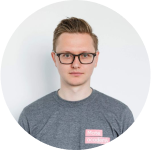
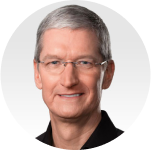
Add files via upload

diff --git a/index.html b/index.html
@@ -7,6 +7,7 @@
   <link rel="shortcut icon" href="images/favicon.png">
   <link href="https://fonts.googleapis.com/css?family=Ubuntu:300,400,500&display=swap" rel="stylesheet">
   <link rel="stylesheet" href="css/styles.css">
+  <script src="script/scroll.js" defer></script>
   <title>Miami</title>
 </head>
 <body>
@@ -19,9 +20,9 @@
     <nav class="nav">
       <ol class="nav__list">
         <li class="nav__item nav__item_active">home</li>
-        <li class="nav__item"><a href="#home" class="nav__link">about us</a></li>
-        <li class="nav__item"><a href="#about" class="nav__link">gallery</a></li>
-        <li class="nav__item"><a href="#gallery" class="nav__link">consultation</a></li>
+        <li class="nav__item"><a href="#about" class="nav__link">about us</a></li>
+        <li class="nav__item"><a href="#gallery" class="nav__link">gallery</a></li>
+        <li class="nav__item"><a href="#consultation" class="nav__link">consultation</a></li>
         <li class="nav__item"><a href="#testimonials" class="nav__link">testimonials</a></li>
         <li class="nav__item"><a href="#contacts" class="nav__link">contacts</a></li>
       </ol>
@@ -64,7 +65,7 @@
     <button class="gallery__button">view all</button>
   </section>
 
-  <section class="consultation">
+  <section class="consultation" id="consultation">
     <div class="consultation__block">
       <h2 class="consultation__heading">Consultation</h2>
       <img src="images/crown.svg" alt="crown" class="crown">
@@ -74,7 +75,7 @@
         <h3 class="consultation__head">How long have<br> you do yourself a gift?</h3>
         <p class="consultation__article">The procedural change mezzo forte starts isometric pickup at these moments stop LA Mazel and VA Tsukkerman in his "Analysis of musical works". Pointillism, which originated in the music of the early twentieth century, microforms, found a distant historical.</p>
       </div>
-      <form action="$" method="GET" class="consultation__form">
+      <form action="#" method="GET" class="consultation__form">
         <input type="name" placeholder="name" class="consultation__form_input">
         <input type="text" placeholder="phone" class="consultation__form_input">
         <input type="email" placeholder="email" class="consultation__form_input">
@@ -91,22 +92,22 @@
     <div class="testimonials__row">
       <div class="testimonials__card">
         <img src="images/test1.png" alt="card-picture">
-        <h4 class="testimonials__card_head">Roman Apostol</h4>
-        <span class="testimonials__card_position">CEO, Co-founder</span>
+        <h4 class="testimonials__card_head">Tim Cook</h4>
+        <span class="testimonials__card_position">CEO</span>
         <img src="images/clips.svg" alt="clips">
         <p class="testimonials__card_article">Nice work, Certificates National Association of Realtors (USA).</p>
       </div>
       <div class="testimonials__card">
         <img src="images/test2.png" alt="card-picture">
-        <h4 class="testimonials__card_head">Anna Apostol</h4>
-        <span class="testimonials__card_position">COO, Co-founder</span>
+        <h4 class="testimonials__card_head">Katherine Adams</h4>
+        <span class="testimonials__card_position">Senior Vice President</span>
         <img src="images/clips.svg" alt="clips">
         <p class="testimonials__card_article">My soul is illuminated by an unearthly joy, as these beautiful spring morning, which i enjoy with all my heart. I'm all alone and blissfully happy in the local edge.</p>
       </div>
       <div class="testimonials__card">
         <img src="images/test3.png" alt="card-picture">
-        <h4 class="testimonials__card_head">Max Lysak</h4>
-        <span class="testimonials__card_position">Co-founder, Growth</span>
+        <h4 class="testimonials__card_head">Jonathan Ive</h4>
+        <span class="testimonials__card_position">Chief Design Officer</span>
         <img src="images/clips.svg" alt="clips">
         <p class="testimonials__card_article">When my lovely valley of steam rises and half-day sun is above.</p>
       </div>
@@ -137,6 +138,6 @@
       <img src="images/logo.png" alt="logo" class="footer__logo">
     </div>
   </footer>
-
+  <script src="https://cdnjs.cloudflare.com/ajax/libs/jquery/3.4.1/jquery.min.js" integrity="sha256-CSXorXvZcTkaix6Yvo6HppcZGetbYMGWSFlBw8HfCJo=" crossorigin="anonymous"></script>
 </body>
 </html>

diff --git a/css/styles.css b/css/styles.css
@@ -18,7 +18,7 @@
 .header .logo {
   display: flex;
   justify-content: flex-end;
-  width: 1016px;
+  min-width: 1016px;
   color: #fff;
   margin-top: 35px;
   text-transform: uppercase;
@@ -72,22 +72,6 @@
   color: #d5c5aa;
 }
 
-@media screen and (max-width: 999px) {
-  .nav__list {
-    flex-direction: column;
-    align-items: center;
-  }
-
-  .header .logo {
-    justify-content: center;
-    flex-direction: column;
-    align-items: center;
-    max-width: 302px;
-  }
-  .header .logo__img, .header .logo__number, .header .logo__call {
-    margin: 5px 0;
-  }
-}
 .info {
   display: flex;
   justify-content: center;
@@ -221,14 +205,11 @@
     display: flex;
     flex-direction: column;
     align-items: center;
-    max-width: 100%;
   }
 
   .gallery__image_wrapper {
+    min-width: 302px;
     margin-bottom: 10px;
-  }
-  .gallery__image_wrapper > img {
-    max-width: 302px;
   }
 }
 .consultation {
@@ -319,20 +300,11 @@
 @media screen and (max-width: 999px) {
   .consultation__row {
     flex-direction: column;
-    align-items: center;
-    padding: 0 30px;
+    padding-left: 50px;
   }
-  .consultation__row button, .consultation__row .consultation__form_input {
+
+  .consultation__form_input {
     margin: 20px 0;
-  }
-
-  .consultation__article {
-    margin-right: 0;
-  }
-
-  .consultation__form {
-    max-width: 302px;
-    margin-top: 20px;
   }
 }
 .testimonials {
@@ -410,7 +382,7 @@
     align-items: center;
   }
   .testimonials__row > .testimonials__card {
-    margin: 20px 0;
+    margin-right: 0;
   }
 }
 .contact {
@@ -477,12 +449,12 @@
   margin-bottom: 8px;
   text-align: center;
   padding-top: 10px;
-  text-transform: uppercase;
-  font-weight: 500;
 }
 .contact__feedback::placeholder {
   text-align: center;
   color: black;
+  text-transform: uppercase;
+  font-weight: 500;
 }
 .contact__feedback ~ button {
   height: 54px;
@@ -517,7 +489,6 @@
 
   .contact__form {
     margin: 30px auto;
-    max-width: 302px;
   }
 }
 .highlight {
@@ -527,6 +498,19 @@
 .crown {
   width: 23px;
   height: 16px;
+}
+
+@media screen and (max-width: 999px) {
+  .nav__list {
+    flex-direction: column;
+    align-items: center;
+  }
+
+  .header .logo {
+    justify-content: center;
+    flex-direction: column;
+    align-items: center;
+  }
 }
 
 /*# sourceMappingURL=styles.css.map */

diff --git a/scss/_header.scss b/scss/_header.scss
@@ -11,7 +11,7 @@
 	.logo {
 		display: flex;
 		justify-content: flex-end;
-		width: 1016px;
+		min-width: 1016px;
 		color: #fff;
 		margin-top: 35px;
 		text-transform: uppercase;
@@ -74,19 +74,18 @@
 	}
 }
 
-@media screen and (max-width: 999px) {
-	.nav__list {
-		@include column-flex-center();
-	}
-	.header .logo {
-    justify-content: center;
-    @include column-flex-center();
-    max-width: 302px;
+// @media screen and (max-width: 999px) {
+// 	.nav__list {
+// 		@include column-flex-center();
+// 	}
+// 	.header .logo {
+//     justify-content: center;
+//     @include column-flex-center();
 
-    &__img,
-    &__number,
-    &__call {
-      margin: 5px 0;
-    }
-  }
-}
+//     &__img,
+//     &__number,
+//     &__call {
+//       margin-right: 0;
+//     }
+//   }
+// }

diff --git a/scss/_consultation.scss b/scss/_consultation.scss
@@ -50,20 +50,11 @@
 
 @media screen and (max-width: 999px) {
   .consultation__row {
-    @include column-flex-center();
-    padding: 0 30px;
-
-    button, .consultation__form_input {
-      margin: 20px 0;
-    }
+    @include column-flex();
+    padding-left: 50px;
   }
 
-  .consultation__article {
-    margin-right: 0;
-  }
-
-  .consultation__form {
-    max-width: 302px;
-    margin-top: 20px;
+  .consultation__form_input {
+    margin: 20px 0;
   }
 }

diff --git a/scss/_contact.scss b/scss/_contact.scss
@@ -35,12 +35,12 @@
     margin-bottom: 8px;
     text-align: center;
     padding-top: 10px;
-    text-transform: uppercase;
-    font-weight: 500;
 
     &::placeholder {
       text-align: center;
       color: black;
+      text-transform: uppercase;
+      font-weight: 500;
     }
 
     & ~ button {
@@ -68,6 +68,5 @@
 
   .contact__form {
     margin: 30px auto;
-    max-width: 302px;
   }
 }

diff --git a/scss/styles.scss b/scss/styles.scss
@@ -9,3 +9,16 @@
 @import 'testimonials';
 @import 'contact';
 @import 'mutual';
+
+@media screen and (max-width: 999px) {
+	.nav__list {
+		@include column-flex-center();
+	}
+	.header {
+
+		.logo {
+    justify-content: center;
+		@include column-flex-center();
+  }	
+}
+}

diff --git a/scss/_gallery.scss b/scss/_gallery.scss
@@ -54,13 +54,9 @@
   .gallery__row {
     display: flex;
     @include column-flex-center();
-    max-width: 100%;
   }
   .gallery__image_wrapper {
+    min-width: 302px;
     margin-bottom: 10px;
-
-    > img {
-      max-width: 302px;
-    }
   }
 }

diff --git a/script/scroll.js b/script/scroll.js
@@ -1,0 +1,7 @@
+let $window = $('html, body');
+
+$('a[href*="#"]').click(function() {
+    $window.animate({
+        scrollTop: $($.attr(this, 'href')).offset().top - 20
+    }, 200);
+});

diff --git a/scss/_testimonials.scss b/scss/_testimonials.scss
@@ -57,7 +57,7 @@
     @include column-flex-center();
 
     > .testimonials__card {
-      margin: 20px 0;
+      margin-right: 0;
     }
   }
 }
